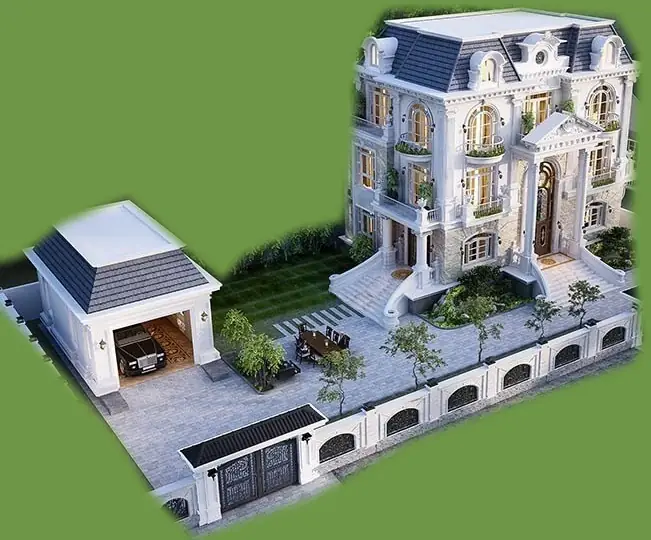
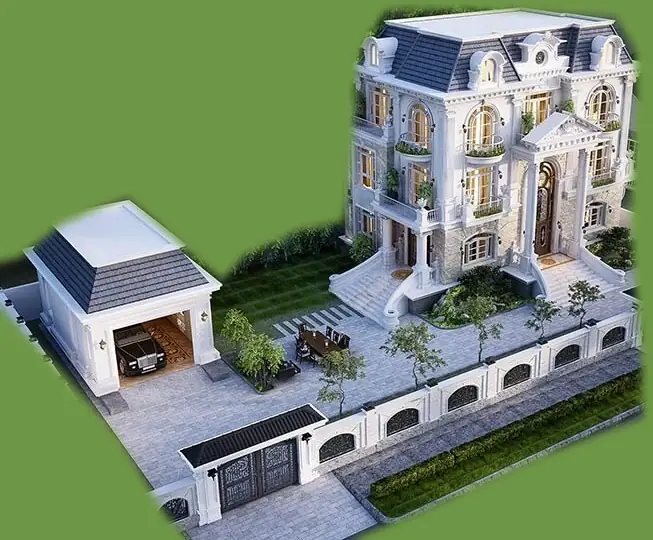
Mau 15 lay ca via he va mep duong; mau 4 may mong lai, troi nhanh hon
- Mau 15: cat toi VIEN BO VIA thay vi sat chan tuong, nen thay ro hang rao,
  san vuon va duong truoc nha. Van dung o x=642 de khong lay co gai dap xe,
  va long duong nhua (co chiec o to) nam duoi duong cat.
- Mau 4: chu du an bao may "chua du de thay" roi "hoi day" -> troi that day
  +-90 don vi trong 26 giay (do that: 3 giay di 160-240 cham), con may ve them
  thi mong bot mot phan ba va nhat con .42.

diff --git a/apps/frontend/src/components/banner11/mauBanner.ts b/apps/frontend/src/components/banner11/mauBanner.ts
@@ -34,7 +34,7 @@ export const MAU_BANNER: MauBanner[] = [
   {
     "lop": "st-depth",
     "ten": "Chữ nằm sau núi",
-    "html": "<div class=\"banner st-depth\" data-cycle=\"10000\">\n    <svg class=\"fill-svg\" viewBox=\"0 0 1000 301\" preserveAspectRatio=\"xMidYMid slice\" aria-label=\"Chữ CAM LÂM nằm sau dãy núi\">\n      <defs>\n        <clipPath id=\"ridgeClip\"><path d=\"M0 145L23 142L54 140L99 143L130 139L176 145L191 147L260 148L298 154L329 148L360 151L398 147L436 145L482 146L513 150L551 147L574 140L593 134L612 132L635 133L658 137L681 145L711 150L742 147L780 140L818 137L864 136L910 134L956 135L1000 136V301H0Z\"/></clipPath>\n        <clipPath id=\"skyClip\"><path d=\"M0 0H1000V136L956 135L910 134L864 136L818 137L780 140L742 147L711 150L681 145L658 137L635 133L612 132L593 134L574 140L551 147L513 150L482 146L436 145L398 147L360 151L329 148L298 154L260 148L191 147L176 145L130 139L99 143L54 140L23 142L0 145Z\"/></clipPath>\n        <filter id=\"dpMayMo\" x=\"-40%\" y=\"-120%\" width=\"180%\" height=\"340%\"><feGaussianBlur stdDeviation=\"6.5\"/></filter><linearGradient id=\"dpG\" x1=\"0\" y1=\"0\" x2=\"0\" y2=\"1\"><stop offset=\"0\" stop-color=\"#ffffff\"/><stop offset=\"1\" stop-color=\"#fef3c7\"/></linearGradient>\n        <filter id=\"dpShadow\" x=\"-10%\" y=\"-20%\" width=\"120%\" height=\"160%\"><feDropShadow dx=\"0\" dy=\"3\" stdDeviation=\"4\" flood-color=\"#0b1d36\" flood-opacity=\".35\"/></filter>\n      </defs>\n      <image href=\"/banner11/px-14024133-2400.webp\" width=\"1000\" height=\"301\" preserveAspectRatio=\"none\"/>\n      <g clip-path=\"url(#skyClip)\"><image class=\"dp-sky\" href=\"/banner11/px-14024133-2400.webp\" width=\"1000\" height=\"301\" preserveAspectRatio=\"none\"/></g>\n      <g class=\"dp-may\" clip-path=\"url(#skyClip)\" filter=\"url(#dpMayMo)\" aria-hidden=\"true\"><g class=\"may m1\" style=\"--y:34px;--s:1;--d:74s;--k:.05\"><g class=\"bong\"><ellipse cx=\"0\" cy=\"0\" rx=\"78\" ry=\"19\"/><ellipse cx=\"-52\" cy=\"6\" rx=\"52\" ry=\"14\"/><ellipse cx=\"46\" cy=\"7\" rx=\"58\" ry=\"13\"/><ellipse cx=\"2\" cy=\"-12\" rx=\"40\" ry=\"16\"/></g></g><g class=\"may m2\" style=\"--y:58px;--s:.72;--d:96s;--k:.46\"><g class=\"bong\"><ellipse cx=\"0\" cy=\"0\" rx=\"62\" ry=\"15\"/><ellipse cx=\"-40\" cy=\"5\" rx=\"40\" ry=\"11\"/><ellipse cx=\"38\" cy=\"5\" rx=\"44\" ry=\"10\"/><ellipse cx=\"0\" cy=\"-9\" rx=\"30\" ry=\"12\"/></g></g><g class=\"may m3\" style=\"--y:18px;--s:1.25;--d:126s;--k:.72\"><g class=\"bong\"><ellipse cx=\"0\" cy=\"0\" rx=\"96\" ry=\"22\"/><ellipse cx=\"-64\" cy=\"8\" rx=\"62\" ry=\"16\"/><ellipse cx=\"58\" cy=\"8\" rx=\"68\" ry=\"15\"/><ellipse cx=\"4\" cy=\"-15\" rx=\"48\" ry=\"19\"/></g></g><g class=\"may m4\" style=\"--y:80px;--s:.6;--d:62s;--k:.28\"><g class=\"bong\"><ellipse cx=\"0\" cy=\"0\" rx=\"46\" ry=\"12\"/><ellipse cx=\"-30\" cy=\"4\" rx=\"30\" ry=\"9\"/><ellipse cx=\"28\" cy=\"4\" rx=\"32\" ry=\"8\"/></g></g></g><g class=\"dp-text\" data-at=\"500\" data-once filter=\"url(#dpShadow)\"><text x=\"485\" y=\"151\" text-anchor=\"middle\" font-family=\"Inter, system-ui, sans-serif\" font-size=\"118\" font-weight=\"900\" letter-spacing=\"-3\" word-spacing=\"14\" fill=\"url(#dpG)\">CAM LÂM</text></g>\n      <g clip-path=\"url(#ridgeClip)\"><image href=\"/banner11/px-14024133-2400.webp\" width=\"1000\" height=\"301\" preserveAspectRatio=\"none\"/></g>\n    </svg>\n    <div class=\"layer dp-shade\"></div>\n    <div class=\"dp-content\">\n      <div><span class=\"kicker dp-kicker fx-up\" data-at=\"1500\" data-once>Tựa sơn · hướng hải</span>\n        <p class=\"dp-sub fx-up\" data-at=\"1700\" data-once>Lưng tựa núi xanh, mặt hướng biển lớn – Cam Lâm, đất lành để an cư và thịnh vượng</p></div>\n      <div class=\"fx-pop\" data-at=\"2100\" data-once><a class=\"cta\" href=\"#\">Khám phá <span aria-hidden=\"true\">→</span></a></div>\n    </div>\n  </div>"
+    "html": "<div class=\"banner st-depth\" data-cycle=\"10000\">\n    <svg class=\"fill-svg\" viewBox=\"0 0 1000 301\" preserveAspectRatio=\"xMidYMid slice\" aria-label=\"Chữ CAM LÂM nằm sau dãy núi\">\n      <defs>\n        <clipPath id=\"ridgeClip\"><path d=\"M0 145L23 142L54 140L99 143L130 139L176 145L191 147L260 148L298 154L329 148L360 151L398 147L436 145L482 146L513 150L551 147L574 140L593 134L612 132L635 133L658 137L681 145L711 150L742 147L780 140L818 137L864 136L910 134L956 135L1000 136V301H0Z\"/></clipPath>\n        <clipPath id=\"skyClip\"><path d=\"M0 0H1000V136L956 135L910 134L864 136L818 137L780 140L742 147L711 150L681 145L658 137L635 133L612 132L593 134L574 140L551 147L513 150L482 146L436 145L398 147L360 151L329 148L298 154L260 148L191 147L176 145L130 139L99 143L54 140L23 142L0 145Z\"/></clipPath>\n        <filter id=\"dpMayMo\" x=\"-40%\" y=\"-120%\" width=\"180%\" height=\"340%\"><feGaussianBlur stdDeviation=\"6.5\"/></filter><linearGradient id=\"dpG\" x1=\"0\" y1=\"0\" x2=\"0\" y2=\"1\"><stop offset=\"0\" stop-color=\"#ffffff\"/><stop offset=\"1\" stop-color=\"#fef3c7\"/></linearGradient>\n        <filter id=\"dpShadow\" x=\"-10%\" y=\"-20%\" width=\"120%\" height=\"160%\"><feDropShadow dx=\"0\" dy=\"3\" stdDeviation=\"4\" flood-color=\"#0b1d36\" flood-opacity=\".35\"/></filter>\n      </defs>\n      <image href=\"/banner11/px-14024133-2400.webp\" width=\"1000\" height=\"301\" preserveAspectRatio=\"none\"/>\n      <g clip-path=\"url(#skyClip)\"><image class=\"dp-sky\" href=\"/banner11/px-14024133-2400.webp\" width=\"1000\" height=\"301\" preserveAspectRatio=\"none\"/></g>\n      <g class=\"dp-may\" clip-path=\"url(#skyClip)\" filter=\"url(#dpMayMo)\" aria-hidden=\"true\"><g class=\"may m1\" style=\"--y:34px;--s:1;--d:44s;--k:.05\"><g class=\"bong\"><ellipse cx=\"0\" cy=\"0\" rx=\"80\" ry=\"12\"/><ellipse cx=\"-54\" cy=\"4\" rx=\"52\" ry=\"9\"/><ellipse cx=\"48\" cy=\"5\" rx=\"58\" ry=\"8\"/></g></g><g class=\"may m2\" style=\"--y:58px;--s:.72;--d:54s;--k:.46\"><g class=\"bong\"><ellipse cx=\"0\" cy=\"0\" rx=\"64\" ry=\"10\"/><ellipse cx=\"-42\" cy=\"3\" rx=\"40\" ry=\"7\"/><ellipse cx=\"40\" cy=\"3\" rx=\"44\" ry=\"6\"/></g></g><g class=\"may m3\" style=\"--y:18px;--s:1.25;--d:66s;--k:.72\"><g class=\"bong\"><ellipse cx=\"0\" cy=\"0\" rx=\"98\" ry=\"14\"/><ellipse cx=\"-66\" cy=\"5\" rx=\"62\" ry=\"10\"/><ellipse cx=\"60\" cy=\"5\" rx=\"68\" ry=\"9\"/></g></g><g class=\"may m4\" style=\"--y:80px;--s:.6;--d:38s;--k:.28\"><g class=\"bong\"><ellipse cx=\"0\" cy=\"0\" rx=\"48\" ry=\"8\"/><ellipse cx=\"-31\" cy=\"3\" rx=\"30\" ry=\"6\"/><ellipse cx=\"29\" cy=\"3\" rx=\"32\" ry=\"5\"/></g></g></g><g class=\"dp-text\" data-at=\"500\" data-once filter=\"url(#dpShadow)\"><text x=\"485\" y=\"151\" text-anchor=\"middle\" font-family=\"Inter, system-ui, sans-serif\" font-size=\"118\" font-weight=\"900\" letter-spacing=\"-3\" word-spacing=\"14\" fill=\"url(#dpG)\">CAM LÂM</text></g>\n      <g clip-path=\"url(#ridgeClip)\"><image href=\"/banner11/px-14024133-2400.webp\" width=\"1000\" height=\"301\" preserveAspectRatio=\"none\"/></g>\n    </svg>\n    <div class=\"layer dp-shade\"></div>\n    <div class=\"dp-content\">\n      <div><span class=\"kicker dp-kicker fx-up\" data-at=\"1500\" data-once>Tựa sơn · hướng hải</span>\n        <p class=\"dp-sub fx-up\" data-at=\"1700\" data-once>Lưng tựa núi xanh, mặt hướng biển lớn – Cam Lâm, đất lành để an cư và thịnh vượng</p></div>\n      <div class=\"fx-pop\" data-at=\"2100\" data-once><a class=\"cta\" href=\"#\">Khám phá <span aria-hidden=\"true\">→</span></a></div>\n    </div>\n  </div>"
   },
   {
     "lop": "st-duo",
@@ -89,7 +89,7 @@ export const MAU_BANNER: MauBanner[] = [
   {
     "lop": "st-b5",
     "ten": "Phác thảo nhà trên đất trống",
-    "html": "<div class=\"banner st-b5\" data-cycle=\"10000\">\n    <svg data-vbm=\"430 430 360 320\" class=\"fill-svg\" viewBox=\"250 566 700 226\" preserveAspectRatio=\"xMidYMid slice\" role=\"img\" aria-label=\"Phác thảo căn nhà 3 tầng có sân vườn trên lô đất trống\">\n      <defs>\n        <linearGradient id=\"c15Roof\" x1=\"0\" y1=\"0\" x2=\"0\" y2=\"1\"><stop offset=\"0\" stop-color=\"#fb923c\" stop-opacity=\".88\"/><stop offset=\"1\" stop-color=\"#c2410c\" stop-opacity=\".82\"/></linearGradient>\n        <pattern id=\"c15Grid\" width=\"4\" height=\"4\" patternUnits=\"userSpaceOnUse\" patternTransform=\"matrix(0.911 -0.412 0.771 0.637 0 0)\"><path d=\"M4 0H0V4\" fill=\"none\" stroke=\"rgba(165,243,252,.6)\" stroke-width=\".35\"/></pattern>\n      </defs>\n      <image href=\"/banner11/un-1760016400107-2000.webp\" width=\"1000\" height=\"820\" preserveAspectRatio=\"none\"/>\n      <path class=\"b5-grid\" data-at=\"400\" data-once d=\"M674.1 684.9L753.0 657.1L724.0 617.9L645.1 645.7Z\" fill=\"url(#c15Grid)\"/>\n      <path class=\"b5-plot c15-plot\" data-at=\"400\" data-once d=\"M674.1 684.9L753.0 657.1L724.0 617.9L645.1 645.7Z\"/>\n      <g class=\"b5-face\" data-at=\"3300\" data-once><path d=\"M675.1 683.6L750.8 656.9L723.0 619.2L647.3 645.9Z\" fill=\"#16a34a\" opacity=\".22\"/><ellipse cx=\"701.4\" cy=\"655.8\" rx=\"43.5\" ry=\"14.2\" fill=\"#0f172a\" opacity=\".22\"/><image href=\"/banner11/m15-bietthu.webp\" x=\"636.9\" y=\"599.0\" width=\"126.2\" height=\"91.0\" preserveAspectRatio=\"xMidYMax meet\"/></g>\n      <g class=\"grp b5-wire c15-wire\" data-at=\"1000\" data-once><path class=\"draw\" pathLength=\"1\" style=\"--dur:900\" stroke=\"#67e8f9\" d=\"M674.1 684.9L753.0 657.1L724.0 617.9L645.1 645.7Z\"/><path class=\"draw\" pathLength=\"1\" style=\"--d:800;--dur:900\" stroke=\"#fde68a\" opacity=\".85\" d=\"M674.1 681.1L753.0 653.3L724.0 614.0L645.1 641.8L674.1 681.1\"/><path class=\"draw\" pathLength=\"1\" style=\"--d:1700;--dur:600\" stroke=\"#fde68a\" opacity=\".8\" d=\"M674.1 684.9L674.1 681.1M753.0 657.1L753.0 653.3M724.0 617.9L724.0 614.0M645.1 645.7L645.1 641.8\"/></g>\n      <g transform=\"translate(640 676)\"><g class=\"b5-tag\" data-at=\"4200\" data-once font-family=\"Inter, system-ui, sans-serif\">\n        <path d=\"M-12 16L-2 6\" stroke=\"#fde68a\" stroke-width=\".8\"/>\n        <rect x=\"-2\" y=\"-6\" width=\"84\" height=\"17\" rx=\"8.5\" fill=\"rgba(2,6,23,.78)\" stroke=\"rgba(253,230,138,.6)\" stroke-width=\".7\"/>\n        <text x=\"40\" y=\"5.6\" text-anchor=\"middle\" font-size=\"7.5\" font-weight=\"700\" fill=\"#fff\">Nhà 3 tầng · có sân vườn</text>\n      </g></g>\n    </svg>\n    <div class=\"layer grad-l m-top\"></div>\n    <div class=\"b-text m-top\">\n      <span class=\"kicker fx-up\" data-at=\"200\" data-once>Đất nền</span>\n      <h3 class=\"b-title lines\" data-at=\"400\" data-once><span class=\"line\"><span class=\"li\" style=\"--i:0\">Hình dung ngôi nhà</span></span><span class=\"line\"><span class=\"li\" style=\"--i:1\">trên đất của bạn</span></span></h3>\n      <p class=\"b-sub fx-up\" data-at=\"900\" data-once>Phác thảo ngôi nhà ngay trên ảnh chụp thực tế, trước khi đặt viên gạch đầu tiên.</p>\n      <div class=\"fx-pop\" data-at=\"1300\" data-once><a class=\"cta\" href=\"#\">Xem lô đất <span aria-hidden=\"true\">→</span></a></div>\n    </div>\n  </div>"
+    "html": "<div class=\"banner st-b5\" data-cycle=\"10000\">\n    <svg data-vbm=\"430 430 360 320\" class=\"fill-svg\" viewBox=\"250 566 700 226\" preserveAspectRatio=\"xMidYMid slice\" role=\"img\" aria-label=\"Phác thảo căn nhà 3 tầng có sân vườn trên lô đất trống\">\n      <defs>\n        <linearGradient id=\"c15Roof\" x1=\"0\" y1=\"0\" x2=\"0\" y2=\"1\"><stop offset=\"0\" stop-color=\"#fb923c\" stop-opacity=\".88\"/><stop offset=\"1\" stop-color=\"#c2410c\" stop-opacity=\".82\"/></linearGradient>\n        <pattern id=\"c15Grid\" width=\"4\" height=\"4\" patternUnits=\"userSpaceOnUse\" patternTransform=\"matrix(0.911 -0.412 0.771 0.637 0 0)\"><path d=\"M4 0H0V4\" fill=\"none\" stroke=\"rgba(165,243,252,.6)\" stroke-width=\".35\"/></pattern>\n      </defs>\n      <image href=\"/banner11/un-1760016400107-2000.webp\" width=\"1000\" height=\"820\" preserveAspectRatio=\"none\"/>\n      <path class=\"b5-grid\" data-at=\"400\" data-once d=\"M674.0 684.9L752.8 657.1L723.8 617.9L645.0 645.7Z\" fill=\"url(#c15Grid)\"/>\n      <path class=\"b5-plot c15-plot\" data-at=\"400\" data-once d=\"M674.0 684.9L752.8 657.1L723.8 617.9L645.0 645.7Z\"/>\n      <g class=\"b5-face\" data-at=\"3300\" data-once><path d=\"M675.0 683.6L750.7 656.9L722.8 619.2L647.1 645.9Z\" fill=\"#16a34a\" opacity=\".22\"/><ellipse cx=\"701.2\" cy=\"655.8\" rx=\"43.5\" ry=\"14.2\" fill=\"#0f172a\" opacity=\".22\"/><image href=\"/banner11/m15-bietthu.webp\" x=\"636.9\" y=\"599.0\" width=\"126.2\" height=\"91.0\" preserveAspectRatio=\"xMidYMax meet\"/></g>\n      <g class=\"grp b5-wire c15-wire\" data-at=\"1000\" data-once><path class=\"draw\" pathLength=\"1\" style=\"--dur:900\" stroke=\"#67e8f9\" d=\"M674.0 684.9L752.8 657.1L723.8 617.9L645.0 645.7Z\"/><path class=\"draw\" pathLength=\"1\" style=\"--d:800;--dur:900\" stroke=\"#fde68a\" opacity=\".85\" d=\"M674.0 681.1L752.8 653.3L723.8 614.0L645.0 641.8L674.0 681.1\"/><path class=\"draw\" pathLength=\"1\" style=\"--d:1700;--dur:600\" stroke=\"#fde68a\" opacity=\".8\" d=\"M674.0 684.9L674.0 681.1M752.8 657.1L752.8 653.3M723.8 617.9L723.8 614.0M645.0 645.7L645.0 641.8\"/></g>\n      <g transform=\"translate(640 676)\"><g class=\"b5-tag\" data-at=\"4200\" data-once font-family=\"Inter, system-ui, sans-serif\">\n        <path d=\"M-12 16L-2 6\" stroke=\"#fde68a\" stroke-width=\".8\"/>\n        <rect x=\"-2\" y=\"-6\" width=\"84\" height=\"17\" rx=\"8.5\" fill=\"rgba(2,6,23,.78)\" stroke=\"rgba(253,230,138,.6)\" stroke-width=\".7\"/>\n        <text x=\"40\" y=\"5.6\" text-anchor=\"middle\" font-size=\"7.5\" font-weight=\"700\" fill=\"#fff\">Nhà 3 tầng · có sân vườn</text>\n      </g></g>\n    </svg>\n    <div class=\"layer grad-l m-top\"></div>\n    <div class=\"b-text m-top\">\n      <span class=\"kicker fx-up\" data-at=\"200\" data-once>Đất nền</span>\n      <h3 class=\"b-title lines\" data-at=\"400\" data-once><span class=\"line\"><span class=\"li\" style=\"--i:0\">Hình dung ngôi nhà</span></span><span class=\"line\"><span class=\"li\" style=\"--i:1\">trên đất của bạn</span></span></h3>\n      <p class=\"b-sub fx-up\" data-at=\"900\" data-once>Phác thảo ngôi nhà ngay trên ảnh chụp thực tế, trước khi đặt viên gạch đầu tiên.</p>\n      <div class=\"fx-pop\" data-at=\"1300\" data-once><a class=\"cta\" href=\"#\">Xem lô đất <span aria-hidden=\"true\">→</span></a></div>\n    </div>\n  </div>"
   },
   {
     "lop": "st-c16",

diff --git a/apps/frontend/src/components/banner11/banner11-them.css b/apps/frontend/src/components/banner11/banner11-them.css
@@ -523,43 +523,47 @@
    ⚠ ĐỘ TRỄ ÂM (--k) LÀ THỨ QUAN TRỌNG NHẤT. Không có nó thì bốn đám cùng
       xuất phát từ mép trái một lượt, người xem thấy rõ "một hàng mây" chạy
       qua — giả ngay. Trễ âm = mây đã trôi sẵn từ trước khi banner hiện ra.
-   ⚠ Mây đi RẤT CHẬM (62–126 giây một vòng) mới ra dáng mây. Dưới 30 giây là
-      thành khói bay, nhìn sốt ruột. */
+   ⚠ CHẬM QUÁ LÀ COI NHƯ KHÔNG CÓ. Lần đầu để 62–126 giây một vòng cho "thật",
+      chủ dự án xem xong bảo "chưa đủ để thấy" — đúng, vì người ta nhìn banner
+      có vài giây rồi nó chuyển mẫu khác, mây nhích được mấy chấm thì ai thấy.
+      Nay 38–66 giây: đo thật trên máy, trong 3 giây mây đi được 160–240 chấm
+      — mắt bắt được ngay mà vẫn thong thả chứ không thành khói bay. */
 /* ── 1. CHÍNH BẦU TRỜI TRONG ẢNH CŨNG PHẢI TRÔI ──────────────────────────────
    Trong ảnh đã có sẵn mây thật. Bản thiết kế phóng lớp trời lên 3–5% rồi đẩy
    qua lại 10 điểm ảnh trong 24 giây — ít quá, nhìn chỉ như ảnh hơi rung.
-   Nay phóng 12% (đủ chỗ để đẩy mà không hở mép) và đẩy ±55 đơn vị trong 70
-   giây: trên màn hình rộng 1905 là đi được hơn 200 chấm, mây thật trôi thấy rõ
-   mà vẫn thong thả.
-   ⚠ Phóng bao nhiêu thì đẩy tối đa bấy nhiêu: ảnh rộng 1000, phóng 12% là dôi
-      ra 60 mỗi bên → đẩy quá 60 là HỞ MÉP, lòi ra một vệt trống bên rìa trời. */
+   Nay phóng 20% (đủ chỗ để đẩy mà không hở mép) và đẩy ±90 đơn vị trong 26
+   giây: trên màn hình rộng 1905 là đi được hơn 340 chấm, mây thật trôi thấy rõ
+   ngay trong mấy giây đầu — chủ dự án đã bảo một lần "chưa đủ để thấy".
+   ⚠ Phóng bao nhiêu thì đẩy tối đa bấy nhiêu: ảnh rộng 1000, phóng 20% là dôi
+      ra 100 mỗi bên → đẩy quá 100 là HỞ MÉP, lòi ra một vệt trống bên rìa trời. */
 .cl-b11 .dp-sky {
-  animation: cl-b11-troi calc(70s * var(--slow, 1)) ease-in-out infinite alternate;
+  animation: cl-b11-troi calc(26s * var(--slow, 1)) ease-in-out infinite alternate;
   transform-origin: 500px 70px;
 }
 @keyframes cl-b11-troi {
-  from { transform: translateX(-55px) scale(1.12) }
-  to   { transform: translateX(55px) scale(1.12) }
+  from { transform: translateX(-90px) scale(1.2) }
+  to   { transform: translateX(90px) scale(1.2) }
 }
 
 /* ── 2. Mấy đám mây vẽ thêm, trôi chậm hơn lớp trời nên có chiều sâu ─────── */
-.cl-b11 .dp-may { opacity: .58 }
+/* Mờ vừa phải thôi: đậm quá là mây đè lên dãy núi, chủ dự án bảo "hơi dày". */
+.cl-b11 .dp-may { opacity: .42 }
 .cl-b11 .dp-may ellipse { fill: #fff }
 .cl-b11 .dp-may .may {
   animation: cl-b11-may calc(var(--d) * var(--slow, 1)) linear infinite;
   animation-delay: calc(var(--d) * var(--k) * -1);
 }
 .cl-b11 .dp-may .bong {
-  animation: cl-b11-may-bong calc(13s * var(--slow, 1)) ease-in-out infinite alternate;
-  animation-delay: calc(-13s * var(--k));
+  animation: cl-b11-may-bong calc(9s * var(--slow, 1)) ease-in-out infinite alternate;
+  animation-delay: calc(-9s * var(--k));
 }
 @keyframes cl-b11-may {
   from { transform: translate(-300px, var(--y)) scale(var(--s)) }
   to   { transform: translate(1300px, var(--y)) scale(var(--s)) }
 }
 @keyframes cl-b11-may-bong {
-  from { transform: translateY(-3px) }
-  to   { transform: translateY(3px) }
+  from { transform: translateY(-5px) }
+  to   { transform: translateY(5px) }
 }
 /* Máy đặt "giảm chuyển động" thì mây đứng yên — nhưng vẫn hiện, vì không có
    mây thì bầu trời trống trơn. */

diff --git a/scripts/banner11/tach-banner.py b/scripts/banner11/tach-banner.py
@@ -308,6 +308,9 @@ SVG_MAU10 = io.open(_F_MAU10, encoding='utf-8').read().strip() if os.path.exists
 #     (feGaussianBlur) nên mép mây mềm như mây thật, không ra hình bầu dục;
 #   · bốn đám ở bốn độ cao và bốn cỡ khác nhau, trôi với bốn tốc độ khác nhau
 #     (đám ở xa nhỏ và chậm, đám gần to và nhanh hơn) → có chiều sâu;
+#   · tốc độ 38–66 giây một vòng (đi hết bề ngang banner trong 19–33 giây). Lần đầu để 62–126 giây cho "thật", chủ dự án
+#     xem xong bảo "chưa đủ để thấy" — banner chỉ hiện vài giây rồi chuyển mẫu,
+#     mây nhích mấy chấm thì không ai nhận ra;
 #   · mỗi đám còn bồng bềnh lên xuống rất nhẹ, lệch nhịp nhau.
 #
 # ⚠ PHẢI CẮT THEO #skyClip. Không cắt thì mây trôi đè cả lên dãy núi và lên
@@ -319,17 +322,21 @@ def _may(rx, ry, ds):
                    for x, y, a, b in ds)
 
 
-_MAY_1 = _may(1, 1, [(0, 0, 78, 19), (-52, 6, 52, 14), (46, 7, 58, 13), (2, -12, 40, 16)])
-_MAY_2 = _may(1, 1, [(0, 0, 62, 15), (-40, 5, 40, 11), (38, 5, 44, 10), (0, -9, 30, 12)])
-_MAY_3 = _may(1, 1, [(0, 0, 96, 22), (-64, 8, 62, 16), (58, 8, 68, 15), (4, -15, 48, 19)])
-_MAY_4 = _may(1, 1, [(0, 0, 46, 12), (-30, 4, 30, 9), (28, 4, 32, 8)])
+# ⚠ MÂY PHẢI MỎNG. Lần đầu vẽ dày, chủ dự án bảo "phần mây đang hơi dày, bạn
+#    giảm bớt" — mây dày đè lên cả dãy núi phía sau, nhìn như vệt sơn trắng.
+#    Nay bề dày (bán kính đứng) chỉ còn chừng hai phần ba, và bớt một hình bầu
+#    dục ở mỗi đám cho thưa ra.
+_MAY_1 = _may(1, 1, [(0, 0, 80, 12), (-54, 4, 52, 9), (48, 5, 58, 8)])
+_MAY_2 = _may(1, 1, [(0, 0, 64, 10), (-42, 3, 40, 7), (40, 3, 44, 6)])
+_MAY_3 = _may(1, 1, [(0, 0, 98, 14), (-66, 5, 62, 10), (60, 5, 68, 9)])
+_MAY_4 = _may(1, 1, [(0, 0, 48, 8), (-31, 3, 30, 6), (29, 3, 32, 5)])
 
 MAY_MAU4 = (
     '<g class="dp-may" clip-path="url(#skyClip)" filter="url(#dpMayMo)" aria-hidden="true">'
-    '<g class="may m1" style="--y:34px;--s:1;--d:74s;--k:.05"><g class="bong">' + _MAY_1 + '</g></g>'
-    '<g class="may m2" style="--y:58px;--s:.72;--d:96s;--k:.46"><g class="bong">' + _MAY_2 + '</g></g>'
-    '<g class="may m3" style="--y:18px;--s:1.25;--d:126s;--k:.72"><g class="bong">' + _MAY_3 + '</g></g>'
-    '<g class="may m4" style="--y:80px;--s:.6;--d:62s;--k:.28"><g class="bong">' + _MAY_4 + '</g></g>'
+    '<g class="may m1" style="--y:34px;--s:1;--d:44s;--k:.05"><g class="bong">' + _MAY_1 + '</g></g>'
+    '<g class="may m2" style="--y:58px;--s:.72;--d:54s;--k:.46"><g class="bong">' + _MAY_2 + '</g></g>'
+    '<g class="may m3" style="--y:18px;--s:1.25;--d:66s;--k:.72"><g class="bong">' + _MAY_3 + '</g></g>'
+    '<g class="may m4" style="--y:80px;--s:.6;--d:38s;--k:.28"><g class="bong">' + _MAY_4 + '</g></g>'
     '</g>')
 
 MAY_LOC_MAU4 = ('<filter id="dpMayMo" x="-40%" y="-120%" width="180%" height="340%">'

diff --git a/scripts/banner11/tach-biet-thu-mau15.py b/scripts/banner11/tach-biet-thu-mau15.py
@@ -66,8 +66,14 @@ RANH = [
     #    nhà lạ dính bên phải.
     (634, 125), (635, 170), (633, 205), (630, 262), (630, 305),
     (634, 360), (640, 420),
-    # ── chân tường rào mặt trước (chừa ~20 điểm ảnh vỉa hè) ──
-    (630, 437), (515, 477), (410, 515), (310, 572), (195, 612),
+    # ── RA TỚI MÉP ĐƯỜNG: lấy trọn vỉa hè, dải cỏ và viên bó vỉa ───────────
+    # ⚠ Cắt sát chân tường thì mất hết vỉa hè lẫn mặt đường — chủ dự án xem
+    #    xong bảo "cắt thiếu hàng rào sân vườn và đường". Nay đi theo VIÊN BÓ
+    #    VỈA (mép đường), nên nhìn ra ngay là căn nhà có đường chạy trước mặt.
+    # ⚠ Vẫn dừng ở x ≈ 642: bên phải đó có cô gái đạp xe ngồi ngay mép đường,
+    #    lấy sang là banner có người đạp xe lơ lửng giữa bãi cỏ.
+    #    Lòng đường nhựa (cùng chiếc ô tô trên đó) nằm DƯỚI đường cắt này.
+    (642, 492), (540, 530), (415, 587), (350, 615), (190, 615), (168, 592),
     # ── chân tường rào bên trái (chừa ~12 điểm ảnh) ──
     (150, 565), (118, 513), (95, 486), (63, 448), (25, 408), (-10, 370),
     (-10, 340),
